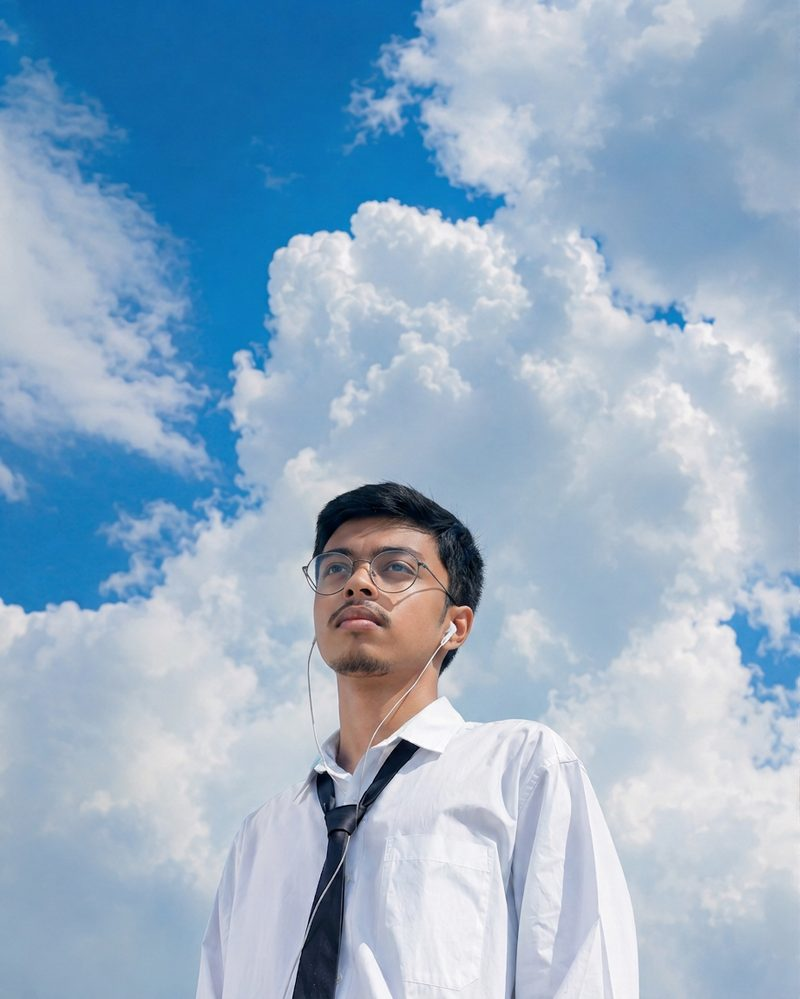
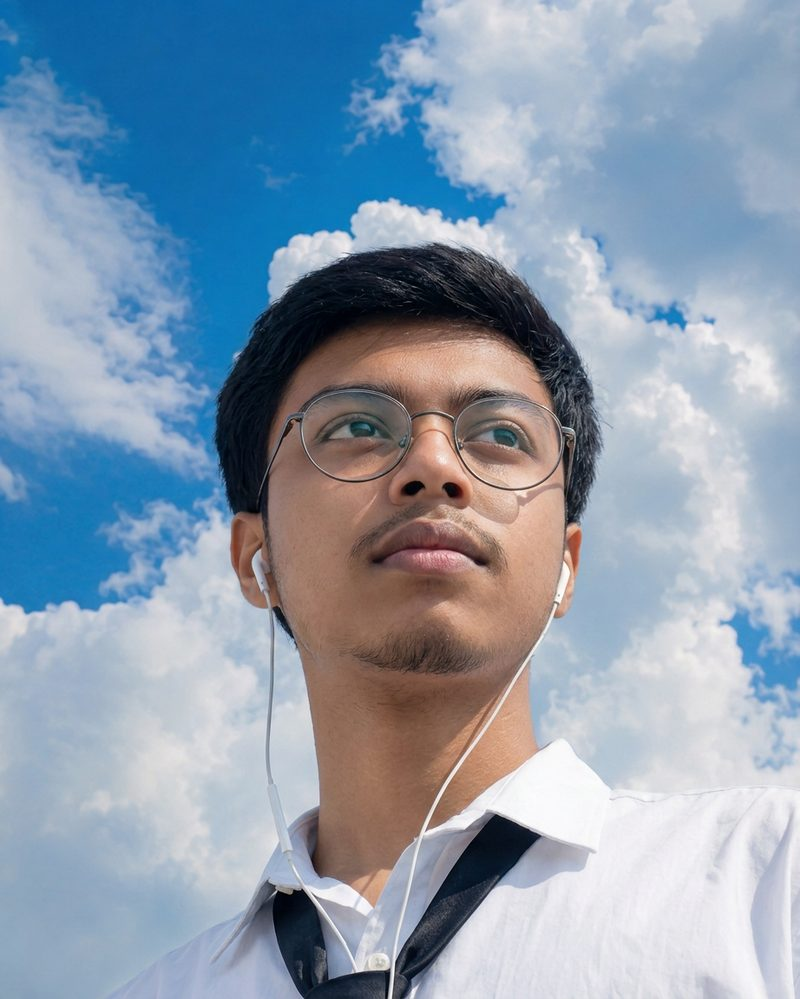
final 100/100 real identity PNG

Changed region(s): [[0.2188, 0.2172, 1.0, 1.0], [0.9062, 0.6206, 0.9375, 0.6517]]

diff --git a/index.html b/index.html
@@ -337,11 +337,11 @@
                     </div>
                     <div class="banner-three-right tw-rounded-lg" data-aos="fade-up" data-aos-duration="1000" data-aos-delay="300">
                       <div class="banner-three-counter-item tw-rounded-md tw-mb-4 position-relative">
-                        <h4 class="banner-three-counter-title tw-text-101 fw-semibold font-heading text-heading tw-mb-2 lh-1"><span class="purecounter font-heading" data-purecounter-duration="2" data-purecounter-end="3">3</span>+</h4>
+                        <h4 class="banner-three-counter-title tw-text-101 fw-semibold font-heading text-heading tw-mb-2 lh-1"><span class="font-heading" data-purecounter-end="3">3</span>+</h4>
                         <p class="banner-three-counter-paragraph tw-text-lg fw-medium text-heading">Projects Built & Learning</p>
                       </div>
                       <div class="banner-three-counter-item tw-rounded-md tw-mb-4 ms-auto bg-black">
-                        <h4 class="banner-three-counter-title tw-text-101 fw-semibold font-heading text-white tw-mb-2 lh-1"><span class="purecounter font-heading" data-purecounter-duration="4" data-purecounter-end="52">52</span>+</h4>
+                        <h4 class="banner-three-counter-title tw-text-101 fw-semibold font-heading text-white tw-mb-2 lh-1"><span class="font-heading" data-purecounter-end="52">52</span>+</h4>
                         <p class="banner-three-counter-paragraph tw-text-lg fw-medium text-white">GitHub Contributions</p>
                       </div>
                       <div class="banner-three-counter-item tw-rounded-md tw-mb-4">
@@ -350,7 +350,7 @@
                           <div class="tw-w-9 tw-h-9 rounded-circle overflow-hidden border border-2 border-white position-relative z-2 tw--ms-16-px"><img src="assets/images/thumbs/team-img2.png" alt="" class="w-100 h-100 object-fit-cover" loading="lazy" /></div>
                           <div class="tw-w-9 tw-h-9 rounded-circle overflow-hidden border border-2 border-white position-relative z-3 tw--ms-16-px"><img src="assets/images/thumbs/team-img3.png" alt="" class="w-100 h-100 object-fit-cover" loading="lazy" /></div>
                         </div>
-                        <h4 class="banner-three-counter-title tw-text-101 fw-semibold font-heading text-heading tw-mb-2 lh-1"><span class="purecounter font-heading" data-purecounter-duration="3" data-purecounter-end="12">12</span>+</h4>
+                        <h4 class="banner-three-counter-title tw-text-101 fw-semibold font-heading text-heading tw-mb-2 lh-1"><span class="font-heading" data-purecounter-end="12">12</span>+</h4>
                         <p class="banner-three-counter-paragraph tw-text-lg fw-medium text-heading">Followers & Community</p>
                       </div>
                     </div>
@@ -407,11 +407,11 @@
               </div>
               <div class="about-three-wrap-shape d-flex justify-content-between">
                 <div class="banner-three-counter-item tw-rounded-md position-relative" data-aos="fade-up" data-aos-duration="1000" data-aos-delay="200">
-                  <h2 class="banner-three-counter-title tw-text-101 fw-semibold font-heading text-heading tw-mb-2 lh-1"><span class="purecounter font-heading" data-purecounter-duration="4" data-purecounter-end="3">3</span></h2>
+                  <h2 class="banner-three-counter-title tw-text-101 fw-semibold font-heading text-heading tw-mb-2 lh-1"><span class="font-heading" data-purecounter-end="3">3</span></h2>
                   <p class="banner-three-counter-paragraph tw-text-lg fw-medium text-heading">Real GitHub Projects</p>
                 </div>
                 <div class="banner-three-counter-item tw-rounded-md position-relative" data-aos="fade-up" data-aos-duration="1000" data-aos-delay="300">
-                  <h2 class="banner-three-counter-title tw-text-101 fw-semibold font-heading text-heading tw-mb-2 lh-1"><span class="purecounter font-heading" data-purecounter-duration="2" data-purecounter-end="100">100</span>%</h2>
+                  <h2 class="banner-three-counter-title tw-text-101 fw-semibold font-heading text-heading tw-mb-2 lh-1"><span class="font-heading" data-purecounter-end="100">100</span>%</h2>
                   <p class="banner-three-counter-paragraph tw-text-lg fw-medium text-heading">Learning Commitment</p>
                 </div>
               </div>
